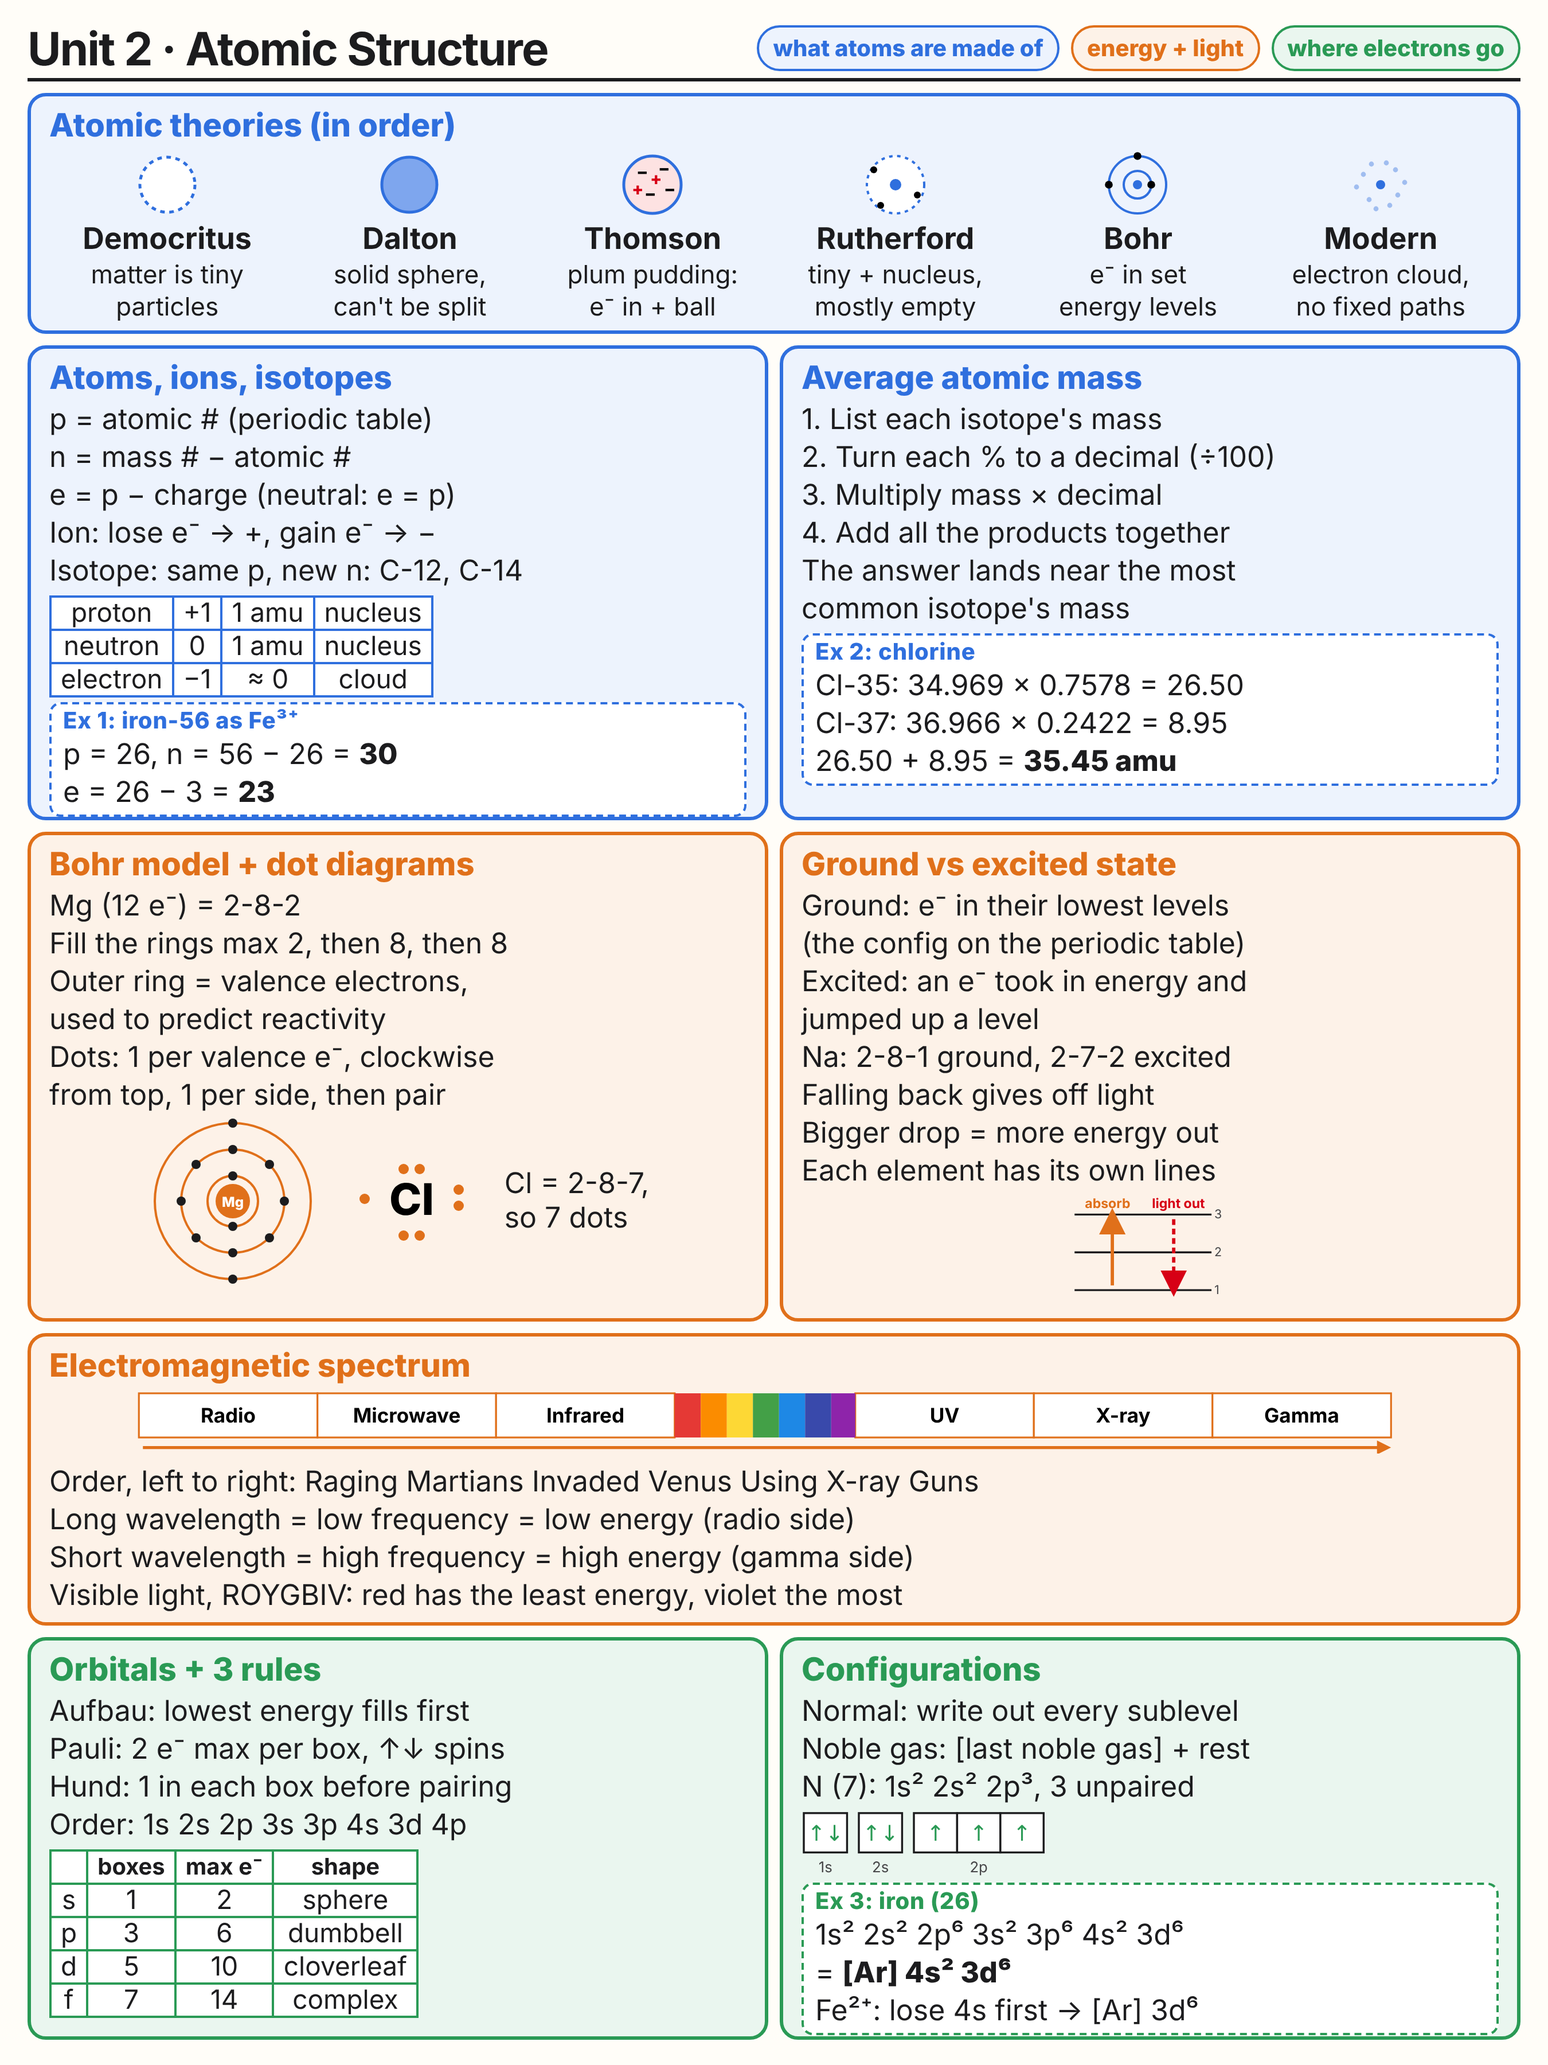
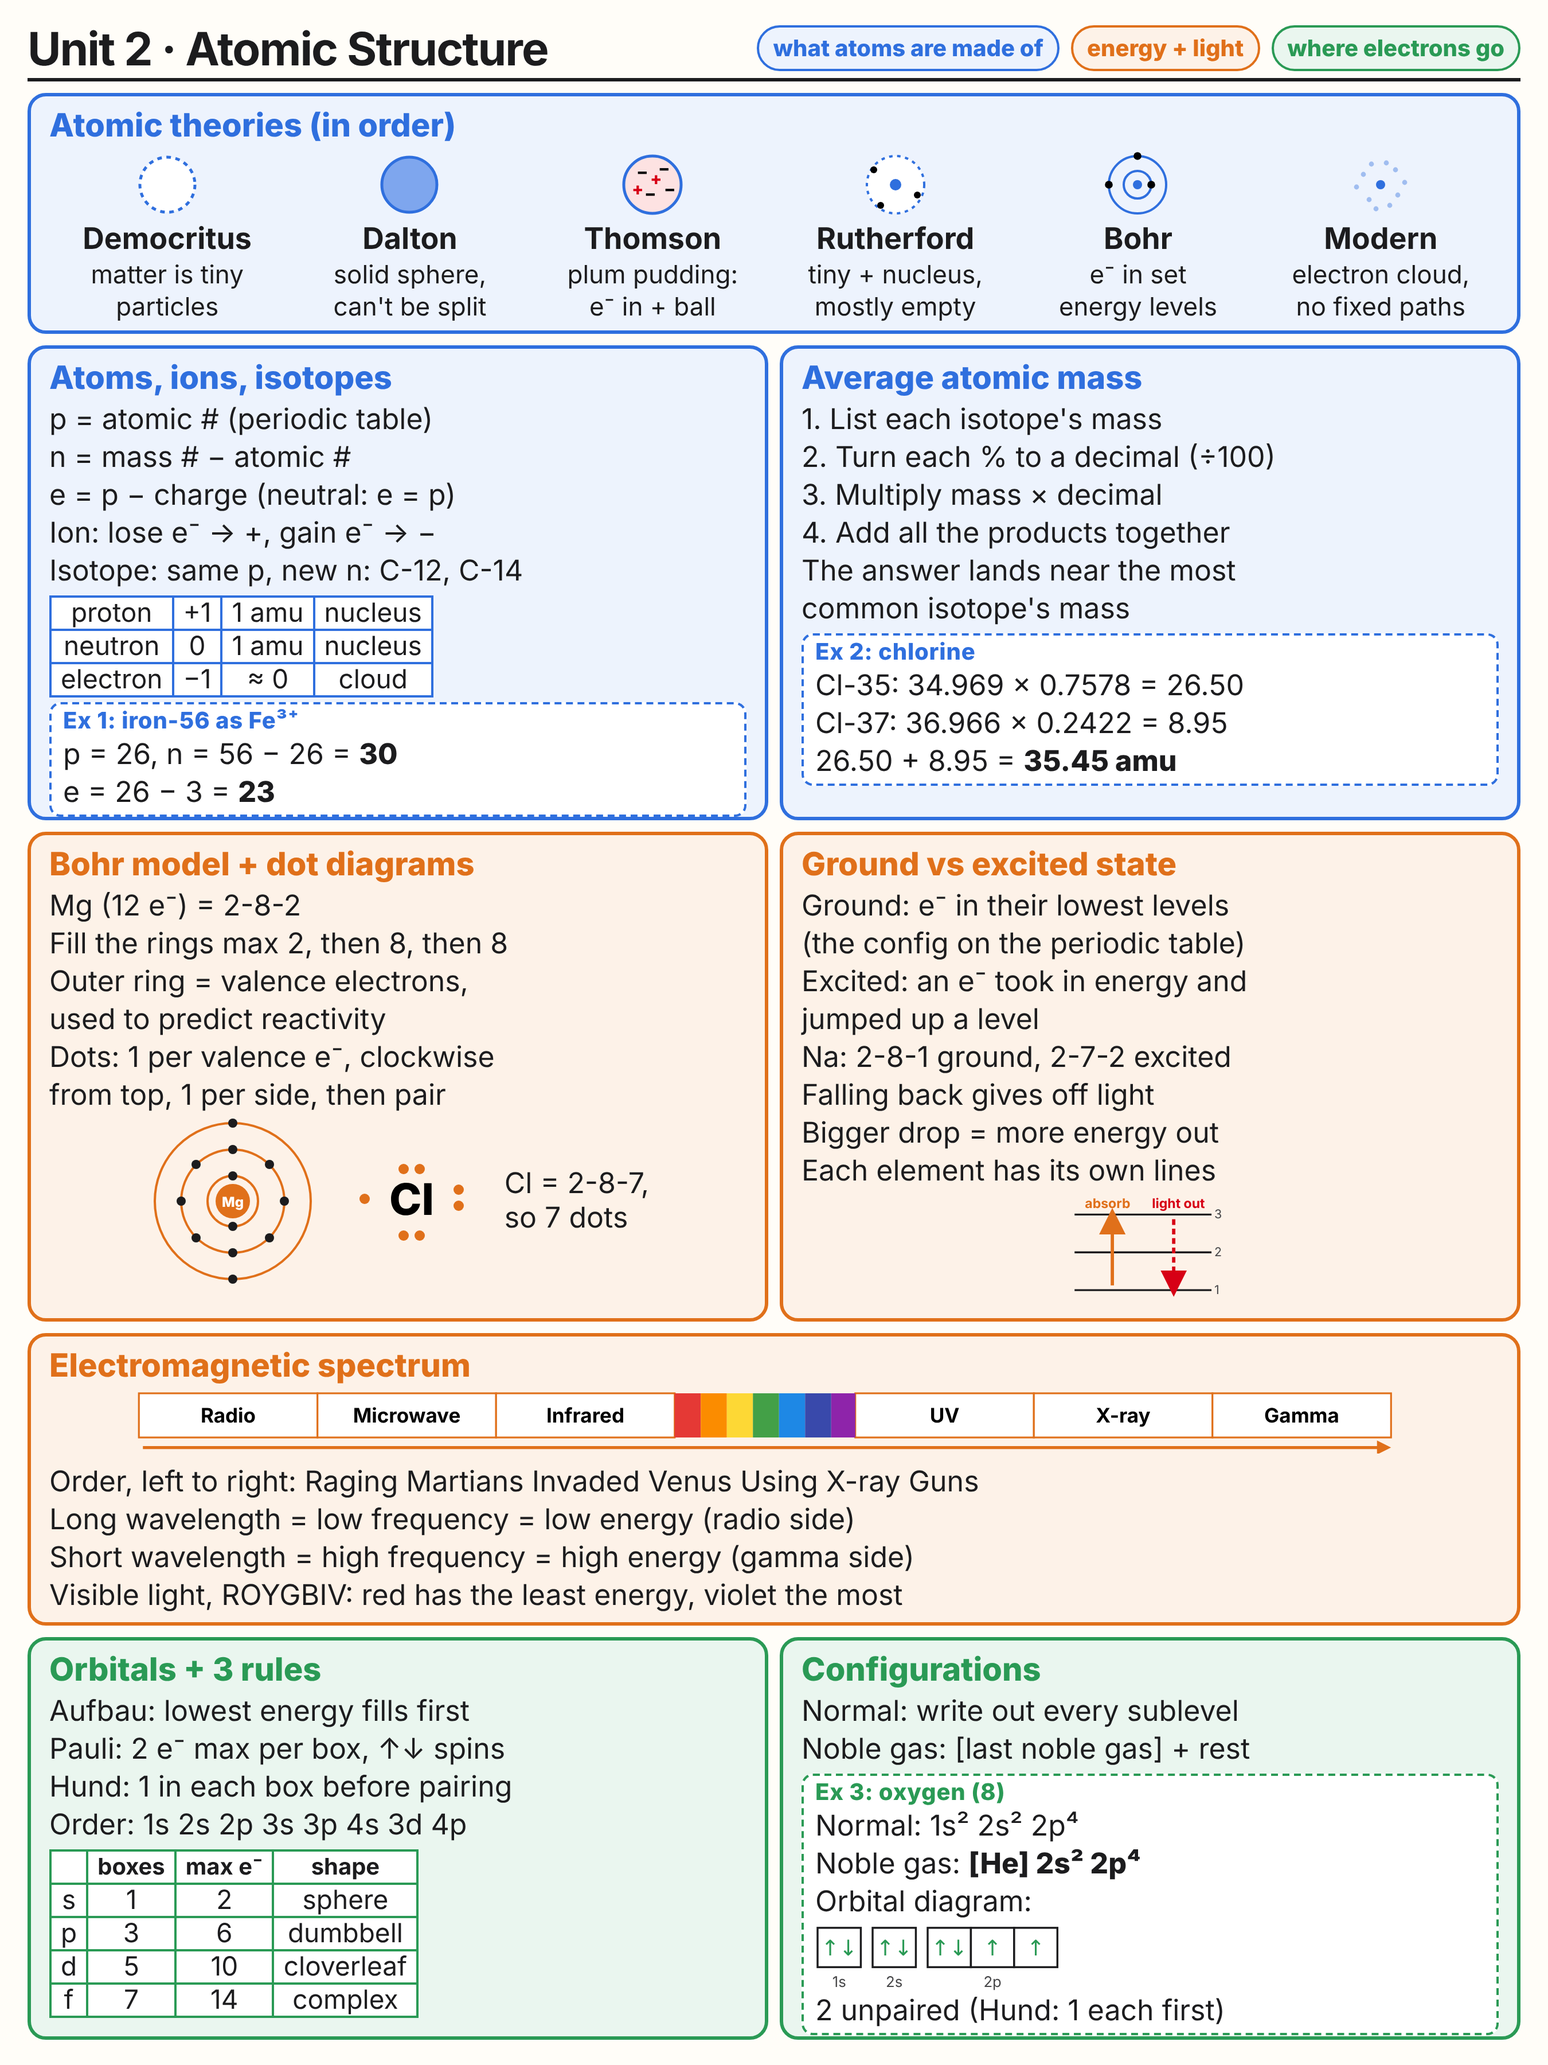
Unit 2: Bohr ring capacity vs Mg, dot diagram steps, oxygen three ways, one pager update

Changed region(s): [[0.4978, 0.84, 0.7778, 0.9956]]

diff --git a/review/index.html b/review/index.html
@@ -2844,6 +2844,14 @@ const DECK = {
    "title": "Bohr's model",
    "cards": [
     [
+     "How many electrons can rings 1, 2 and 3 hold?",
+     "Up to 2, then 8, then 8 (fill inside out, stop when you run out)"
+    ],
+    [
+     "Why is Mg 2-8-2 and not 2-8-8?",
+     "Mg only has 12 electrons: 2 + 8 uses 10, so ring 3 only gets the last 2"
+    ],
+    [
      "Bohr model (who, when)",
      "Niels Bohr, 1913"
     ],
@@ -2970,6 +2978,9 @@ const DECK = {
    ],
    "notes": [
     {
+     "key": "**What a ring can hold vs what an atom has.** Ring 1 holds up to **2** electrons, ring 2 up to **8**, ring 3 up to **8**. You fill from the inside out and stop when you run out.\nMagnesium has 12: ring 1 takes 2 (10 left), ring 2 takes 8 (2 left), ring 3 gets the last 2. So **Mg = 2-8-2**. Chlorine has 17: **2-8-7**.\nIt matches the configuration: ring 1 is 1s (2), ring 2 is 2s + 2p (2 + 6 = 8), ring 3 is 3s + 3p."
+    },
+    {
      "img": "../img/u2/bohr-levels.png",
      "alt": "Bohr model with four energy levels and an electron jumping up and falling back"
     },
@@ -3088,6 +3099,21 @@ const DECK = {
     },
     {
      "p": "A dot diagram (Lewis dot) shows only the **valence electrons**: the last number of the Bohr configuration. Write the symbol, then place dots **clockwise** starting at the top, one per side, and only start pairing after all four sides have one."
+    },
+    {
+     "list": [
+      "Write the element's symbol, like **Cl**.",
+      "Count the valence electrons: the last number of the Bohr configuration. Cl is 2-8-7, so **7**.",
+      "Dots 1 to 4: one on the **top**, one on the **right**, one on the **bottom**, one on the **left**.",
+      "Dots 5 to 8: go around again in the same order, putting each new dot next to the first one to make a **pair**.",
+      "Cl ends with three pairs and one single dot on the left. 8 dots is the most a dot diagram ever has."
+     ]
+    },
+    {
+     "img": "../img/u2/cl-dot-steps.png"
+    },
+    {
+     "alt": "Chlorine's 7 dots numbered in the order you draw them, then the finished diagram"
     },
     {
      "img": "../img/u2/dot-diagrams.png"
@@ -3403,6 +3429,26 @@ const DECK = {
    "title": "Electron configuration",
    "quizlet": "",
    "notes": [
+    {
+     "h": "One element, written three ways"
+    },
+    {
+     "p": "Tests often ask for the same element as a **normal** configuration, in **noble gas** notation, and as an **orbital diagram**. Oxygen has only 8 electrons, so all three are short."
+    },
+    {
+     "img": "../img/u2/oxygen-three-ways.png"
+    },
+    {
+     "alt": "Oxygen: 1s² 2s² 2p⁴, [He] 2s² 2p⁴, and boxes 1s ↑↓, 2s ↑↓, 2p ↑↓ ↑ ↑"
+    },
+    {
+     "list": [
+      "**Normal:** write every sublevel: 1s² 2s² 2p⁴ (2 + 2 + 4 = 8).",
+      "**Noble gas:** the noble gas before oxygen is helium (1s²), so swap that part for [He]: **[He] 2s² 2p⁴**.",
+      "**Orbital diagram:** one box per orbital (1s, 2s, three 2p). In 2p put one ↑ in each box first (Hund), then the 4th electron pairs up in the first box: ↑↓ ↑ ↑.",
+      "**Unpaired** means an electron alone in its box. Oxygen has **2 unpaired**, nitrogen (2p³: ↑ ↑ ↑) has 3."
+     ]
+    },
     {
      "h": "Electron configurations and the Aufbau principle"
     },
@@ -3853,6 +3899,22 @@ const DECK = {
     }
    ],
    "cards": [
+    [
+     "Oxygen, normal configuration",
+     "1s² 2s² 2p⁴"
+    ],
+    [
+     "Oxygen, noble gas notation",
+     "[He] 2s² 2p⁴"
+    ],
+    [
+     "Oxygen orbital diagram",
+     "1s ↑↓ · 2s ↑↓ · 2p ↑↓ ↑ ↑ (2 unpaired)"
+    ],
+    [
+     "What does unpaired mean?",
+     "An electron alone in its orbital box (no ↓ partner)"
+    ],
     [
      "Electron configuration",
      "A list of which sublevels an atom's electrons are in, like 1s² 2s² 2p⁴"

diff --git a/unit-2/index.html b/unit-2/index.html
@@ -1255,6 +1255,14 @@ const DECK = {
    "title": "Bohr's model",
    "cards": [
     [
+     "How many electrons can rings 1, 2 and 3 hold?",
+     "Up to 2, then 8, then 8 (fill inside out, stop when you run out)"
+    ],
+    [
+     "Why is Mg 2-8-2 and not 2-8-8?",
+     "Mg only has 12 electrons: 2 + 8 uses 10, so ring 3 only gets the last 2"
+    ],
+    [
      "Bohr model (who, when)",
      "Niels Bohr, 1913"
     ],
@@ -1381,6 +1389,9 @@ const DECK = {
    ],
    "notes": [
     {
+     "key": "**What a ring can hold vs what an atom has.** Ring 1 holds up to **2** electrons, ring 2 up to **8**, ring 3 up to **8**. You fill from the inside out and stop when you run out.\nMagnesium has 12: ring 1 takes 2 (10 left), ring 2 takes 8 (2 left), ring 3 gets the last 2. So **Mg = 2-8-2**. Chlorine has 17: **2-8-7**.\nIt matches the configuration: ring 1 is 1s (2), ring 2 is 2s + 2p (2 + 6 = 8), ring 3 is 3s + 3p."
+    },
+    {
      "img": "../img/u2/bohr-levels.png",
      "alt": "Bohr model with four energy levels and an electron jumping up and falling back"
     },
@@ -1499,6 +1510,21 @@ const DECK = {
     },
     {
      "p": "A dot diagram (Lewis dot) shows only the **valence electrons**: the last number of the Bohr configuration. Write the symbol, then place dots **clockwise** starting at the top, one per side, and only start pairing after all four sides have one."
+    },
+    {
+     "list": [
+      "Write the element's symbol, like **Cl**.",
+      "Count the valence electrons: the last number of the Bohr configuration. Cl is 2-8-7, so **7**.",
+      "Dots 1 to 4: one on the **top**, one on the **right**, one on the **bottom**, one on the **left**.",
+      "Dots 5 to 8: go around again in the same order, putting each new dot next to the first one to make a **pair**.",
+      "Cl ends with three pairs and one single dot on the left. 8 dots is the most a dot diagram ever has."
+     ]
+    },
+    {
+     "img": "../img/u2/cl-dot-steps.png"
+    },
+    {
+     "alt": "Chlorine's 7 dots numbered in the order you draw them, then the finished diagram"
     },
     {
      "img": "../img/u2/dot-diagrams.png"
@@ -1811,6 +1837,26 @@ const DECK = {
    "title": "Electron configuration",
    "quizlet": "",
    "notes": [
+    {
+     "h": "One element, written three ways"
+    },
+    {
+     "p": "Tests often ask for the same element as a **normal** configuration, in **noble gas** notation, and as an **orbital diagram**. Oxygen has only 8 electrons, so all three are short."
+    },
+    {
+     "img": "../img/u2/oxygen-three-ways.png"
+    },
+    {
+     "alt": "Oxygen: 1s² 2s² 2p⁴, [He] 2s² 2p⁴, and boxes 1s ↑↓, 2s ↑↓, 2p ↑↓ ↑ ↑"
+    },
+    {
+     "list": [
+      "**Normal:** write every sublevel: 1s² 2s² 2p⁴ (2 + 2 + 4 = 8).",
+      "**Noble gas:** the noble gas before oxygen is helium (1s²), so swap that part for [He]: **[He] 2s² 2p⁴**.",
+      "**Orbital diagram:** one box per orbital (1s, 2s, three 2p). In 2p put one ↑ in each box first (Hund), then the 4th electron pairs up in the first box: ↑↓ ↑ ↑.",
+      "**Unpaired** means an electron alone in its box. Oxygen has **2 unpaired**, nitrogen (2p³: ↑ ↑ ↑) has 3."
+     ]
+    },
     {
      "h": "Electron configurations and the Aufbau principle"
     },
@@ -2261,6 +2307,22 @@ const DECK = {
     }
    ],
    "cards": [
+    [
+     "Oxygen, normal configuration",
+     "1s² 2s² 2p⁴"
+    ],
+    [
+     "Oxygen, noble gas notation",
+     "[He] 2s² 2p⁴"
+    ],
+    [
+     "Oxygen orbital diagram",
+     "1s ↑↓ · 2s ↑↓ · 2p ↑↓ ↑ ↑ (2 unpaired)"
+    ],
+    [
+     "What does unpaired mean?",
+     "An electron alone in its orbital box (no ↓ partner)"
+    ],
     [
      "Electron configuration",
      "A list of which sublevels an atom's electrons are in, like 1s² 2s² 2p⁴"

diff --git a/index.html b/index.html
@@ -76,7 +76,7 @@ h1{font-size:34px;line-height:41px;font-weight:700;margin:0;text-wrap:balance}
 <!-- SITE_START -->
 <div><span class="eyebrow">The Clinton School, 2026 to 2027</span><h1>Chemistry, 10th grade</h1><p class="sub">One study loop per unit. Every test in this class is cumulative, so the review page covers everything so far. Quizzes can be unannounced and run about 1 minute per point.</p></div>
 <a class="unit" href="unit-1/index.html"><div class="top"><span class="eyebrow">Unit 1</span><h2>Matter and measurement</h2><span class="chip">Test was Friday, Oct 16</span></div><p class="topics">Classification of matter, properties and changes, states of matter, separation, lab tools, metric system, scientific notation, sig figs, density, accuracy and precision, graphs</p><div class="meter" data-key="studyloop:Chemistry unit 1" data-n="4"><span class="lbl">4 sections, 120 flashcards</span><span class="track"><span class="fill"></span></span></div></a>
-<a class="unit" href="unit-2/index.html"><div class="top"><span class="eyebrow">Unit 2</span><h2>Atomic structure</h2><span class="chip">Unit test Fri, Nov 13</span></div><p class="topics">The 8 topics on the unit test: atomic theories, atoms, ions and isotopes, average atomic mass, Bohr&#x27;s model, electromagnetic spectra, ground vs excited state, electron configuration, orbital diagrams</p><div class="meter" data-key="studyloop:Chemistry unit 2" data-n="11"><span class="lbl">11 sections, 211 flashcards</span><span class="track"><span class="fill"></span></span></div></a>
+<a class="unit" href="unit-2/index.html"><div class="top"><span class="eyebrow">Unit 2</span><h2>Atomic structure</h2><span class="chip">Unit test Fri, Nov 13</span></div><p class="topics">The 8 topics on the unit test: atomic theories, atoms, ions and isotopes, average atomic mass, Bohr&#x27;s model, electromagnetic spectra, ground vs excited state, electron configuration, orbital diagrams</p><div class="meter" data-key="studyloop:Chemistry unit 2" data-n="11"><span class="lbl">11 sections, 217 flashcards</span><span class="track"><span class="fill"></span></span></div></a>
 <a class="unit review" href="review/index.html"><div class="top"><span class="eyebrow">Units 1 and 2</span><h2>Review everything so far</h2></div><p class="topics">Every section from every unit in one place, with a memory jog that covers all of it. Use it before a cumulative test or the final.</p></a>
 <a class="unit review" href="mock-test/"><div class="top"><span class="eyebrow">Unit 2 quiz, Nov 2</span><h2>Quiz mock tests</h2></div><p class="topics">Mock tests A and B from the Nov 2 quiz.</p></a>
 <!-- SITE_END -->

diff --git a/merge8.py b/merge8.py
@@ -136,10 +136,18 @@ def merge(sections, review):
     am["notes"] = [{"key": "**The class's 4 steps:**\n1. Identify the isotopes.\n2. Find each isotope's mass and abundance.\n3. Multiply each mass by its abundance (as a decimal).\n4. Add all the results together."}] + am["notes"]
     am["cards"] = [["Average atomic mass, the 4 class steps", "1. Identify the isotopes. 2. Find mass and abundance. 3. Multiply mass by abundance. 4. Add the results."]] + am["cards"]
     b = G["bohr"]
+    b["notes"] = [{"key": "**What a ring can hold vs what an atom has.** Ring 1 holds up to **2** electrons, ring 2 up to **8**, ring 3 up to **8**. You fill from the inside out and stop when you run out.\nMagnesium has 12: ring 1 takes 2 (10 left), ring 2 takes 8 (2 left), ring 3 gets the last 2. So **Mg = 2-8-2**. Chlorine has 17: **2-8-7**.\nIt matches the configuration: ring 1 is 1s (2), ring 2 is 2s + 2p (2 + 6 = 8), ring 3 is 3s + 3p."}] + b["notes"]
     b["notes"] += [
         {"p": "Chemists use Bohr diagrams to **predict how reactive an element is**: the outer ring shows the **valence electrons**, and an atom with a nearly full or nearly empty outer ring reacts easily."},
         {"h": "Electron dot diagrams"},
         {"p": "A dot diagram (Lewis dot) shows only the **valence electrons**: the last number of the Bohr configuration. Write the symbol, then place dots **clockwise** starting at the top, one per side, and only start pairing after all four sides have one."},
+        {"list": ["Write the element's symbol, like **Cl**.",
+                  "Count the valence electrons: the last number of the Bohr configuration. Cl is 2-8-7, so **7**.",
+                  "Dots 1 to 4: one on the **top**, one on the **right**, one on the **bottom**, one on the **left**.",
+                  "Dots 5 to 8: go around again in the same order, putting each new dot next to the first one to make a **pair**.",
+                  "Cl ends with three pairs and one single dot on the left. 8 dots is the most a dot diagram ever has."]},
+        {"img": "img/u2/cl-dot-steps.png"},
+        {"alt": "Chlorine's 7 dots numbered in the order you draw them, then the finished diagram"},
         {"img": "img/u2/dot-diagrams.png"},
         {"alt": "Dot diagrams for Na (1 dot), Mg (2), N (5), Cl (7) and Ne (8)"},
         {"key": "Chlorine is 2-8-7, so 7 dots: three pairs and one single. Neon is 2-8, so 8 dots, a full octet."}]
@@ -150,6 +158,20 @@ def merge(sections, review):
     b["points"] = b["points"] + ["Dot diagram: valence electrons only, clockwise from the top, pair after all four sides have one"]
     e = G["emspec"]
     e["notes"].insert(2, {"p": "Another way to say it: the EM spectrum is the **full range of all types of electromagnetic radiation, ordered by frequency and wavelength**."})
+    ec = G["econfig"]
+    ec["notes"] = [{"h": "One element, written three ways"},
+                   {"p": "Tests often ask for the same element as a **normal** configuration, in **noble gas** notation, and as an **orbital diagram**. Oxygen has only 8 electrons, so all three are short."},
+                   {"img": "img/u2/oxygen-three-ways.png"},
+                   {"alt": "Oxygen: 1s² 2s² 2p⁴, [He] 2s² 2p⁴, and boxes 1s ↑↓, 2s ↑↓, 2p ↑↓ ↑ ↑"},
+                   {"list": ["**Normal:** write every sublevel: 1s² 2s² 2p⁴ (2 + 2 + 4 = 8).",
+                             "**Noble gas:** the noble gas before oxygen is helium (1s²), so swap that part for [He]: **[He] 2s² 2p⁴**.",
+                             "**Orbital diagram:** one box per orbital (1s, 2s, three 2p). In 2p put one ↑ in each box first (Hund), then the 4th electron pairs up in the first box: ↑↓ ↑ ↑.",
+                             "**Unpaired** means an electron alone in its box. Oxygen has **2 unpaired**, nitrogen (2p³: ↑ ↑ ↑) has 3."]}] + ec["notes"]
+    ec["cards"] = [["Oxygen, normal configuration", "1s² 2s² 2p⁴"], ["Oxygen, noble gas notation", "[He] 2s² 2p⁴"],
+                   ["Oxygen orbital diagram", "1s ↑↓ · 2s ↑↓ · 2p ↑↓ ↑ ↑ (2 unpaired)"],
+                   ["What does unpaired mean?", "An electron alone in its orbital box (no ↓ partner)"]] + ec["cards"]
+    b["cards"] = [["How many electrons can rings 1, 2 and 3 hold?", "Up to 2, then 8, then 8 (fill inside out, stop when you run out)"],
+                  ["Why is Mg 2-8-2 and not 2-8-8?", "Mg only has 12 electrons: 2 + 8 uses 10, so ring 3 only gets the last 2"]] + b["cards"]
     o = G["orbdiag"]
     for n in o["notes"]:
         if "table" in n:
